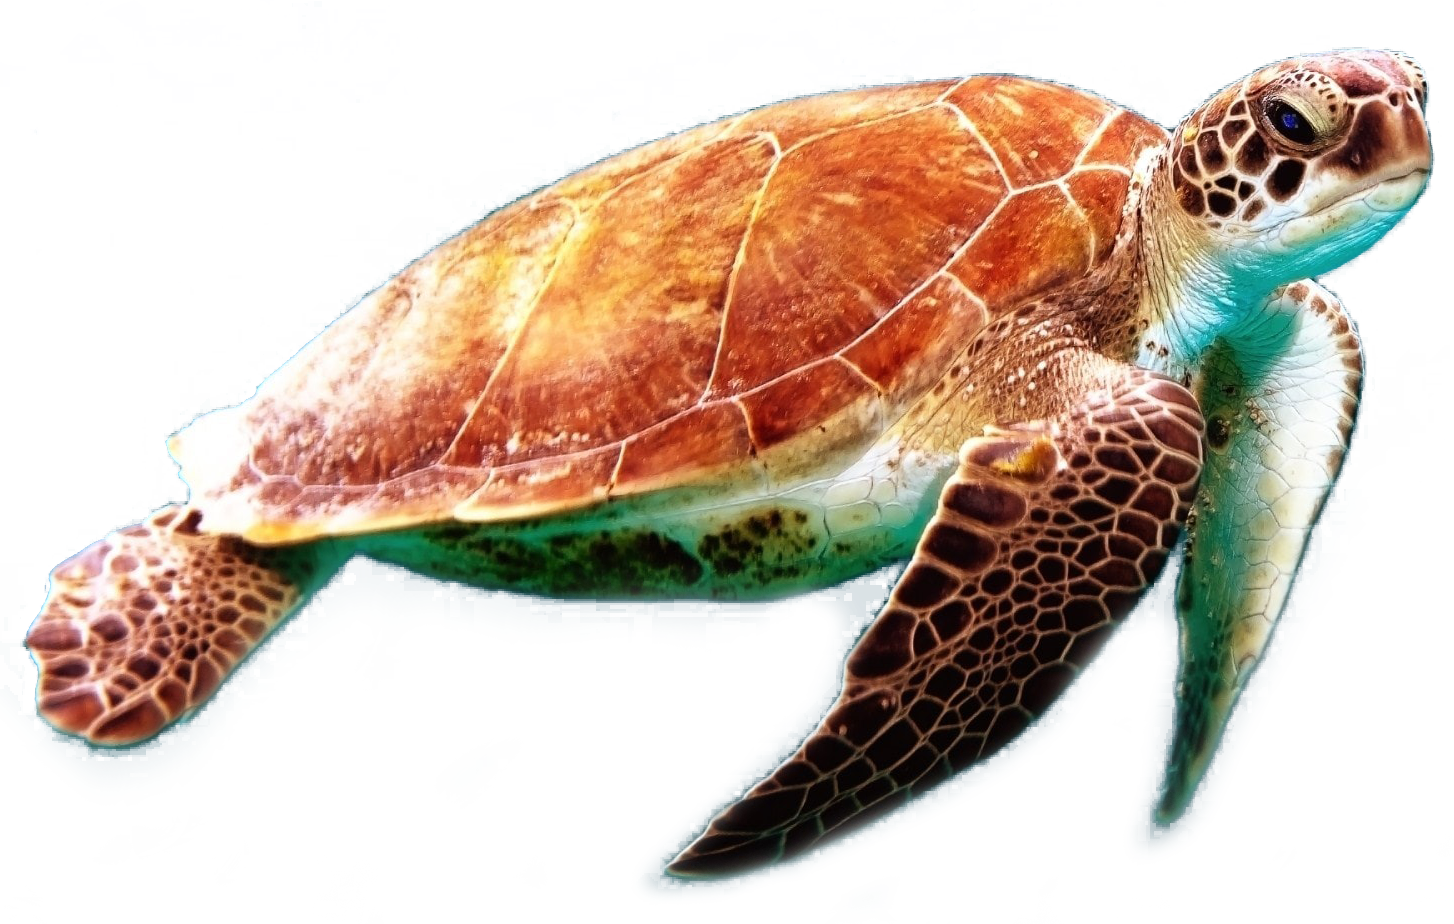
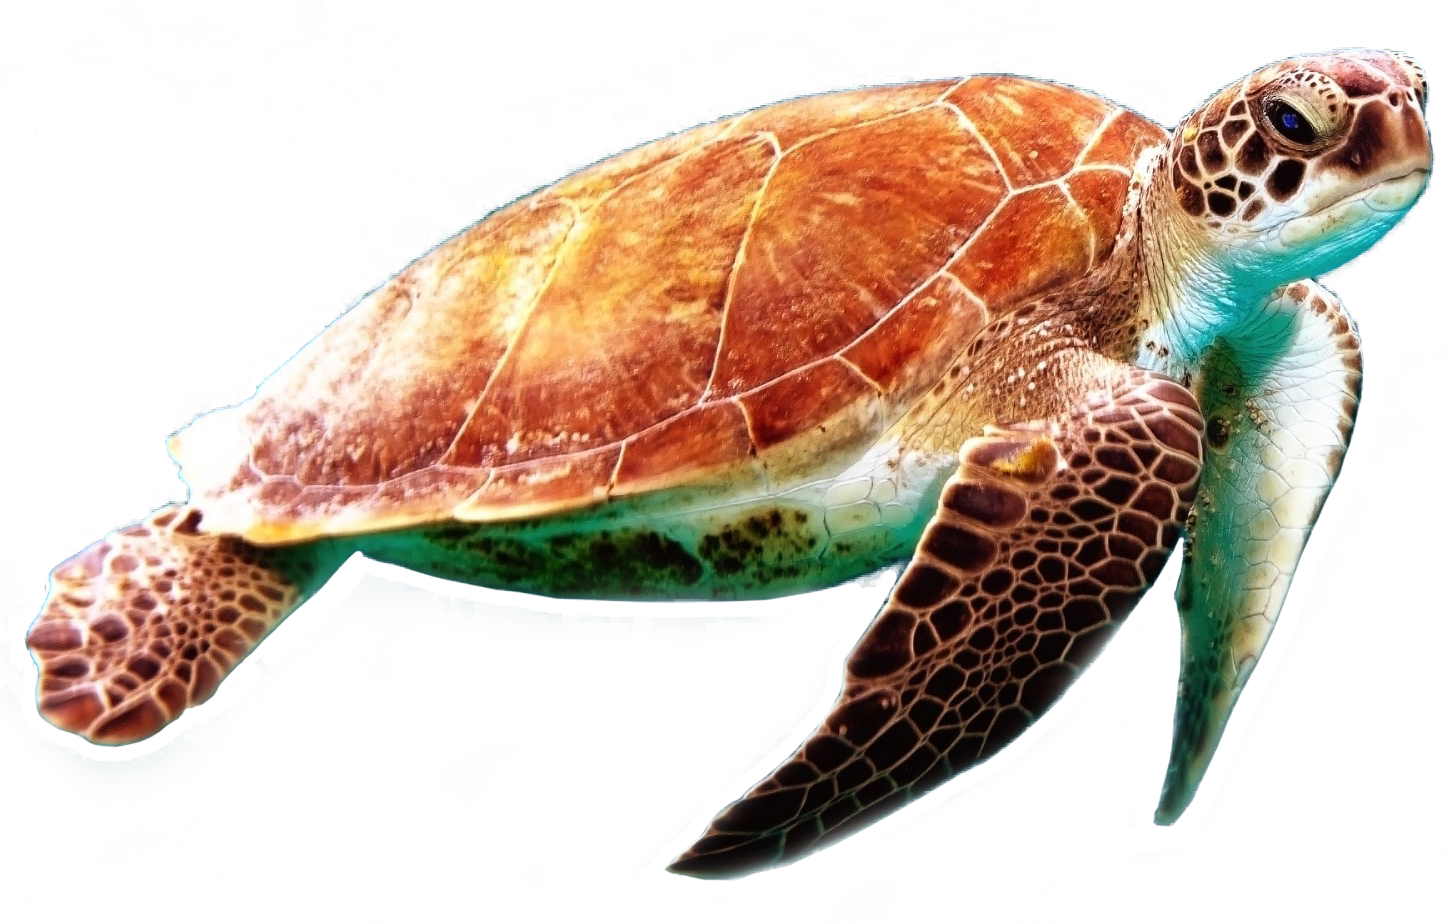
Add Shark img to bg

diff --git a/src/styles.css b/src/styles.css
@@ -426,8 +426,15 @@ section {
 
 .turtle-image {
   background-image: url("./images/turtle.png");
-  background-position: 20% 95%;
+  background-position: 10% 65%;
   background-size: 35em;
+  background-repeat: no-repeat;
+}
+
+.shark-image {
+  background-image: url("./images/shark.png");
+  background-position: 100% 70%;
+  background-size: 30em;
   background-repeat: no-repeat;
 }
 

diff --git a/src/styles.scss b/src/styles.scss
@@ -342,8 +342,15 @@ section {
 
 .turtle-image {
 	background-image: url("./images/turtle.png");
-	background-position: 20% 95%;
+	background-position: 10% 65%;
 	background-size: 35em;
+	background-repeat: no-repeat;
+}
+
+.shark-image {
+	background-image: url("./images/shark.png");
+	background-position: 100% 70%;
+	background-size: 30em;
 	background-repeat: no-repeat;
 }
 

diff --git a/src/App.js b/src/App.js
@@ -12,7 +12,9 @@ export default function App() {
 	return (
 		<div className="container">
 			<Header />
-			<DiveSites />
+			<div className="shark-image">
+				<DiveSites />
+			</div>
 			<ImagesGallery1 />
 			<About />
 			<ImagesGallery2 />
